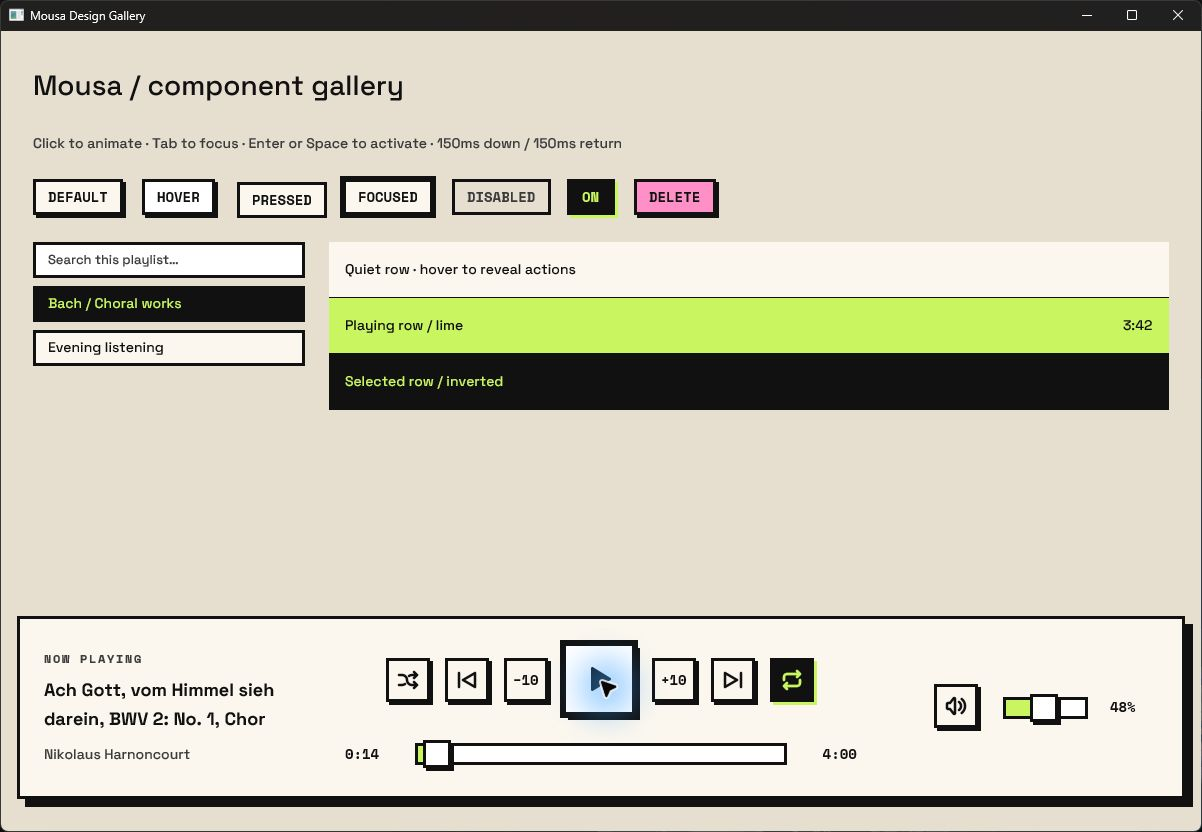
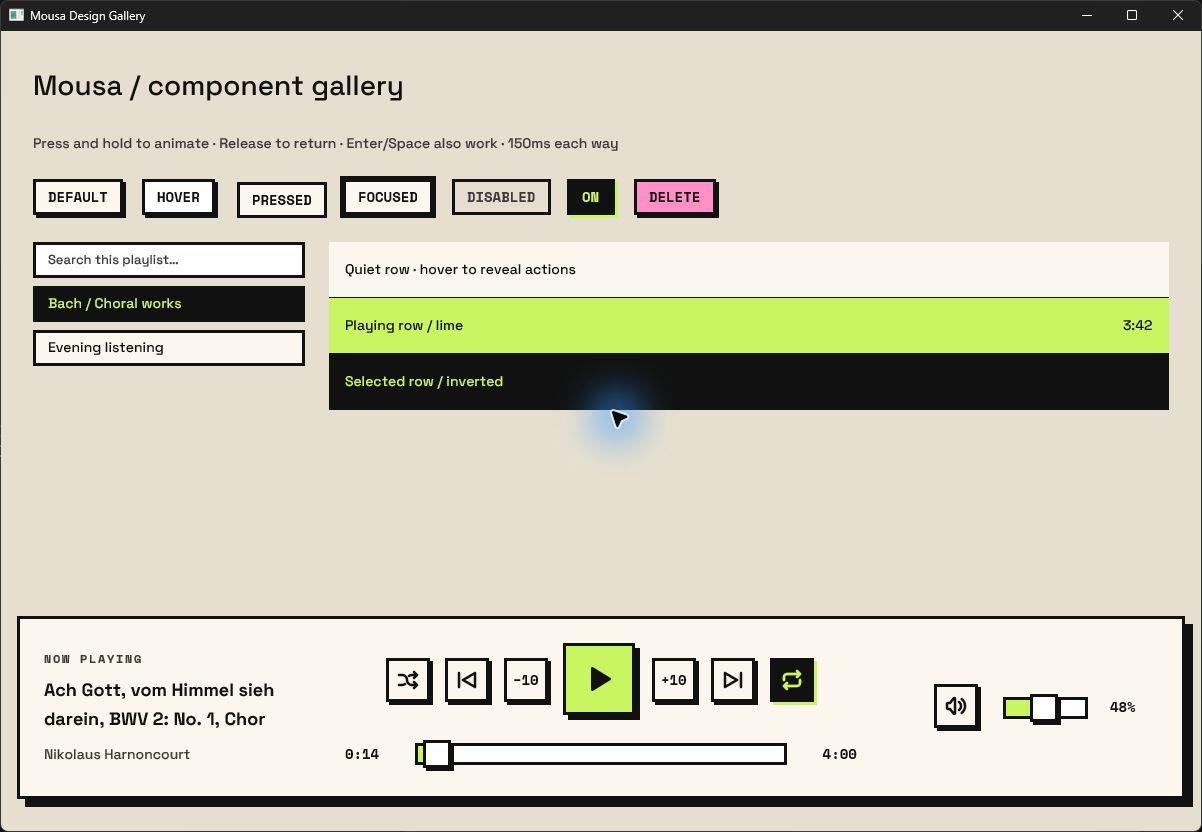
fix(ui): Hold button depth until release without a mouse focus outline

Changed region(s): [[0.0308, 0.1562, 0.5233, 0.1875], [0.4617, 0.75, 0.5541, 0.875], [0.4617, 0.4375, 0.5541, 0.5625]]

diff --git a/src/ui.rs b/src/ui.rs
@@ -85,7 +85,82 @@ pub fn init(cx: &mut App) {
     t.colors.muted_foreground = color::muted();
     t.colors.ring = color::ink();
 }
-/// Fluent shared controls with click motion scoped to their stable element ID.
+#[derive(Default)]
+struct ButtonPress {
+    started: Option<std::time::Instant>,
+    from: f32,
+    held: bool,
+    pointer_focus: bool,
+}
+impl ButtonPress {
+    fn amount(&self, now: std::time::Instant) -> f32 {
+        let target = if self.held { 1. } else { 0. };
+        let progress = self
+            .started
+            .map(|start| press::progress(now.saturating_duration_since(start)))
+            .unwrap_or(1.);
+        self.from + (target - self.from) * progress
+    }
+    fn set_held(&mut self, held: bool, now: std::time::Instant) -> bool {
+        if self.held == held {
+            return false;
+        }
+        self.from = self.amount(now);
+        self.started = Some(now);
+        self.held = held;
+        true
+    }
+    fn animating(&self, now: std::time::Instant) -> bool {
+        self.started
+            .is_some_and(|start| now.saturating_duration_since(start) < press::duration())
+    }
+}
+fn set_button_held(state: &Entity<ButtonPress>, held: bool, cx: &mut App) {
+    state.update(cx, |motion, cx| {
+        if motion.set_held(held, std::time::Instant::now()) {
+            cx.notify();
+        }
+    });
+}
+
+#[cfg(test)]
+mod button_press_tests {
+    use super::{ButtonPress, press};
+    use std::time::{Duration, Instant};
+
+    #[test]
+    fn stays_pressed_until_release() {
+        let now = Instant::now();
+        let mut motion = ButtonPress::default();
+        motion.set_held(true, now);
+        let held = now + Duration::from_secs(30);
+        assert_eq!(motion.amount(held), 1.);
+        assert!(!motion.animating(held));
+        assert!(!motion.set_held(true, held)); // Key repeat must not restart it.
+        motion.set_held(false, held);
+        assert_eq!(motion.amount(held), 1.);
+        assert_eq!(motion.amount(held + press::duration()), 0.);
+    }
+
+    #[test]
+    fn early_release_and_repress_remain_continuous() {
+        let now = Instant::now();
+        let mut motion = ButtonPress::default();
+        motion.set_held(true, now);
+        let release = now + press::duration() / 2;
+        let amount = motion.amount(release);
+        assert!(amount > 0. && amount < 1.);
+        motion.set_held(false, release);
+        assert_eq!(motion.amount(release), amount);
+        let repress = release + press::duration() / 2;
+        let amount = motion.amount(repress);
+        motion.set_held(true, repress);
+        assert_eq!(motion.amount(repress), amount);
+        assert_eq!(motion.amount(repress + press::duration()), 1.);
+    }
+}
+
+/// Fluent shared controls with press/release motion scoped to their stable ID.
 #[derive(IntoElement)]
 pub struct Button {
     inner: Stateful<Div>,
@@ -109,11 +184,12 @@ impl StatefulInteractiveElement for Button {}
 impl RenderOnce for Button {
     fn render(mut self, window: &mut Window, cx: &mut App) -> impl IntoElement {
         let id = Element::id(&self.inner).expect("buttons have stable IDs");
-        let state = window.use_keyed_state(id, cx, |_, _| None::<std::time::Instant>);
-        let amount = state
-            .read(cx)
-            .map(|start| press::progress(start.elapsed()))
-            .unwrap_or(0.);
+        let state = window.use_keyed_state(id, cx, |_, _| ButtonPress::default());
+        let now = std::time::Instant::now();
+        if !window.is_window_active() {
+            set_button_held(&state, false, cx);
+        }
+        let amount = state.read(cx).amount(now);
         let mut shadows = self.inner.style().box_shadow.clone().unwrap_or_default();
         if let Some(depth) = shadows.first().map(|shadow| shadow.offset) {
             if amount > 0. {
@@ -126,22 +202,57 @@ impl RenderOnce for Button {
                     .left(depth.x * amount)
                     .shadow(shadows.clone());
             }
-            // Keep depth visible on focused controls too; focus is independent
-            // of the animated shadow and must never disappear during a click.
-            shadows.push(shadow::focus_ring());
+            // Mouse focus must not cover the collapsing shadow with a ring.
+            // Keyboard navigation retains a visible focus indicator.
+            if !state.read(cx).pointer_focus {
+                shadows.push(shadow::focus_ring());
+            }
             self.inner = self.inner.focus(move |s| s.shadow(shadows));
-            if state
-                .read(cx)
-                .is_some_and(|start| start.elapsed() < press::duration() * 2)
-            {
+            if state.read(cx).animating(now) {
                 window.request_animation_frame();
             }
-            self.inner = self.inner.on_click(move |_, _, cx| {
-                state.update(cx, |start, cx| {
-                    *start = Some(std::time::Instant::now());
-                    cx.notify();
+            let down = state.clone();
+            let up = state.clone();
+            let outside = state.clone();
+            let key_down = state.clone();
+            self.inner = self
+                .inner
+                .on_mouse_down(MouseButton::Left, move |_, _, cx| {
+                    down.update(cx, |motion, cx| {
+                        motion.pointer_focus = true;
+                        motion.set_held(true, std::time::Instant::now());
+                        cx.notify();
+                    });
+                })
+                .on_mouse_up_out(MouseButton::Left, move |_, _, cx| {
+                    set_button_held(&outside, false, cx)
+                })
+                .on_key_down(move |event, _, cx| {
+                    key_down.update(cx, |motion, cx| {
+                        if motion.pointer_focus {
+                            motion.pointer_focus = false;
+                            cx.notify();
+                        }
+                    });
+                    if matches!(event.keystroke.key.as_str(), "space" | "enter")
+                        && !event.keystroke.modifiers.modified()
+                    {
+                        set_button_held(&key_down, true, cx);
+                    }
+                })
+                .on_key_up(move |event, _, cx| {
+                    if matches!(event.keystroke.key.as_str(), "space" | "enter") {
+                        set_button_held(&state, false, cx);
+                    }
                 });
-            });
+            // Release during capture, before an action can stop bubbling.
+            self.inner
+                .interactivity()
+                .capture_any_mouse_up(move |event, _, cx| {
+                    if event.button == MouseButton::Left {
+                        set_button_held(&up, false, cx);
+                    }
+                });
         }
         self.inner
     }

diff --git a/examples/gallery.rs b/examples/gallery.rs
@@ -283,7 +283,7 @@ impl Render for Gallery {
                             .child("Mousa / component gallery"),
                     )
                     .child(div().text_color(color::muted()).child(
-                        "Click to animate · Tab to focus · Enter or Space to activate · 150ms down / 150ms return",
+                        "Press and hold to animate · Release to return · Enter/Space also work · 150ms each way",
                     ))
                     .child(
                         div()

diff --git a/src/theme.rs b/src/theme.rs
@@ -149,7 +149,7 @@ pub mod press {
     }
     pub fn progress(elapsed: std::time::Duration) -> f32 {
         let t = elapsed.as_secs_f32() / duration().as_secs_f32();
-        let t = if t <= 1. { t } else { (2. - t).max(0.) };
+        let t = t.clamp(0., 1.);
         t * t * (3. - 2. * t)
     }
     pub fn sm() -> Pixels {

diff --git a/DESIGN.md b/DESIGN.md
@@ -84,7 +84,8 @@ x-motion:
   button-press-duration: 150ms
   button-release-duration: 150ms
   button-easing: smoothstep
-  button-trigger: click
+  button-trigger: press-and-release
+  button-focus-ring: keyboard-only
 x-alignment:
   playlist-editor-character-counters: right
 x-scrolling:
@@ -431,13 +432,17 @@ not put shadowed controls inside an `overflow_hidden` or scroll container
 without padding, or the shadow is clipped. Rows in lists and items in the
 sidebar carry no shadow.
 
-Button motion is a user-authorized adaptation of neobrutalism.dev's hover
-effect to clicks, including native Enter/Space activation. Move the face
-down/right by its shadow offset over 150ms, then return over 150ms, using
-smoothstep easing. Shrink the shadow offset by the same amount so its outer
-edge stays fixed. Actions fire immediately. Hover changes fill only.
-Shadowless and disabled controls stay still. Repeated clicks restart the pulse.
-Preserve reserved margins and the 3px keyboard focus ring; surrounding layout
+Button motion adapts neobrutalism.dev's hover effect to press and release.
+On left mouse-down, move the face down/right by its shadow offset over 150ms
+using smoothstep easing. Hold that position for as long as the button is held.
+On mouse-up, including outside the control, animate back over 150ms. Quick
+releases and repeated presses reverse smoothly from the current position.
+Shrink the shadow offset by the same amount so its outer edge stays fixed.
+Enter/Space use the same down/hold/up feedback. Losing window activation resets
+the pressed state. Native click actions keep their existing activation timing.
+Hover changes fill only. Shadowless and disabled controls stay still.
+Mouse presses and mouse focus add no outer outline. Keyboard navigation retains
+the 3px focus ring. Preserve reserved margins; surrounding layout
 must not shift. Every interactive element must be focusable and show focus.
 
 ## Shapes
@@ -448,8 +453,8 @@ cards, bars, and inputs. Row dividers are 1px ink. No other border widths.
 ## Components
 
 **Button.** Neutral fill, 3px ink border, sm shadow, 36px high, mono label
-(uppercase for text buttons). Hover: field fill. Click: animated offset and
-shadow collapse, then return.
+(uppercase for text buttons). Hover: field fill. Press: animated offset and
+shadow collapse, held until release; release animates back.
 Disabled: canvas fill, secondary text, no shadow.
 
 **Primary button.** Tertiary fill. At most one per view.
